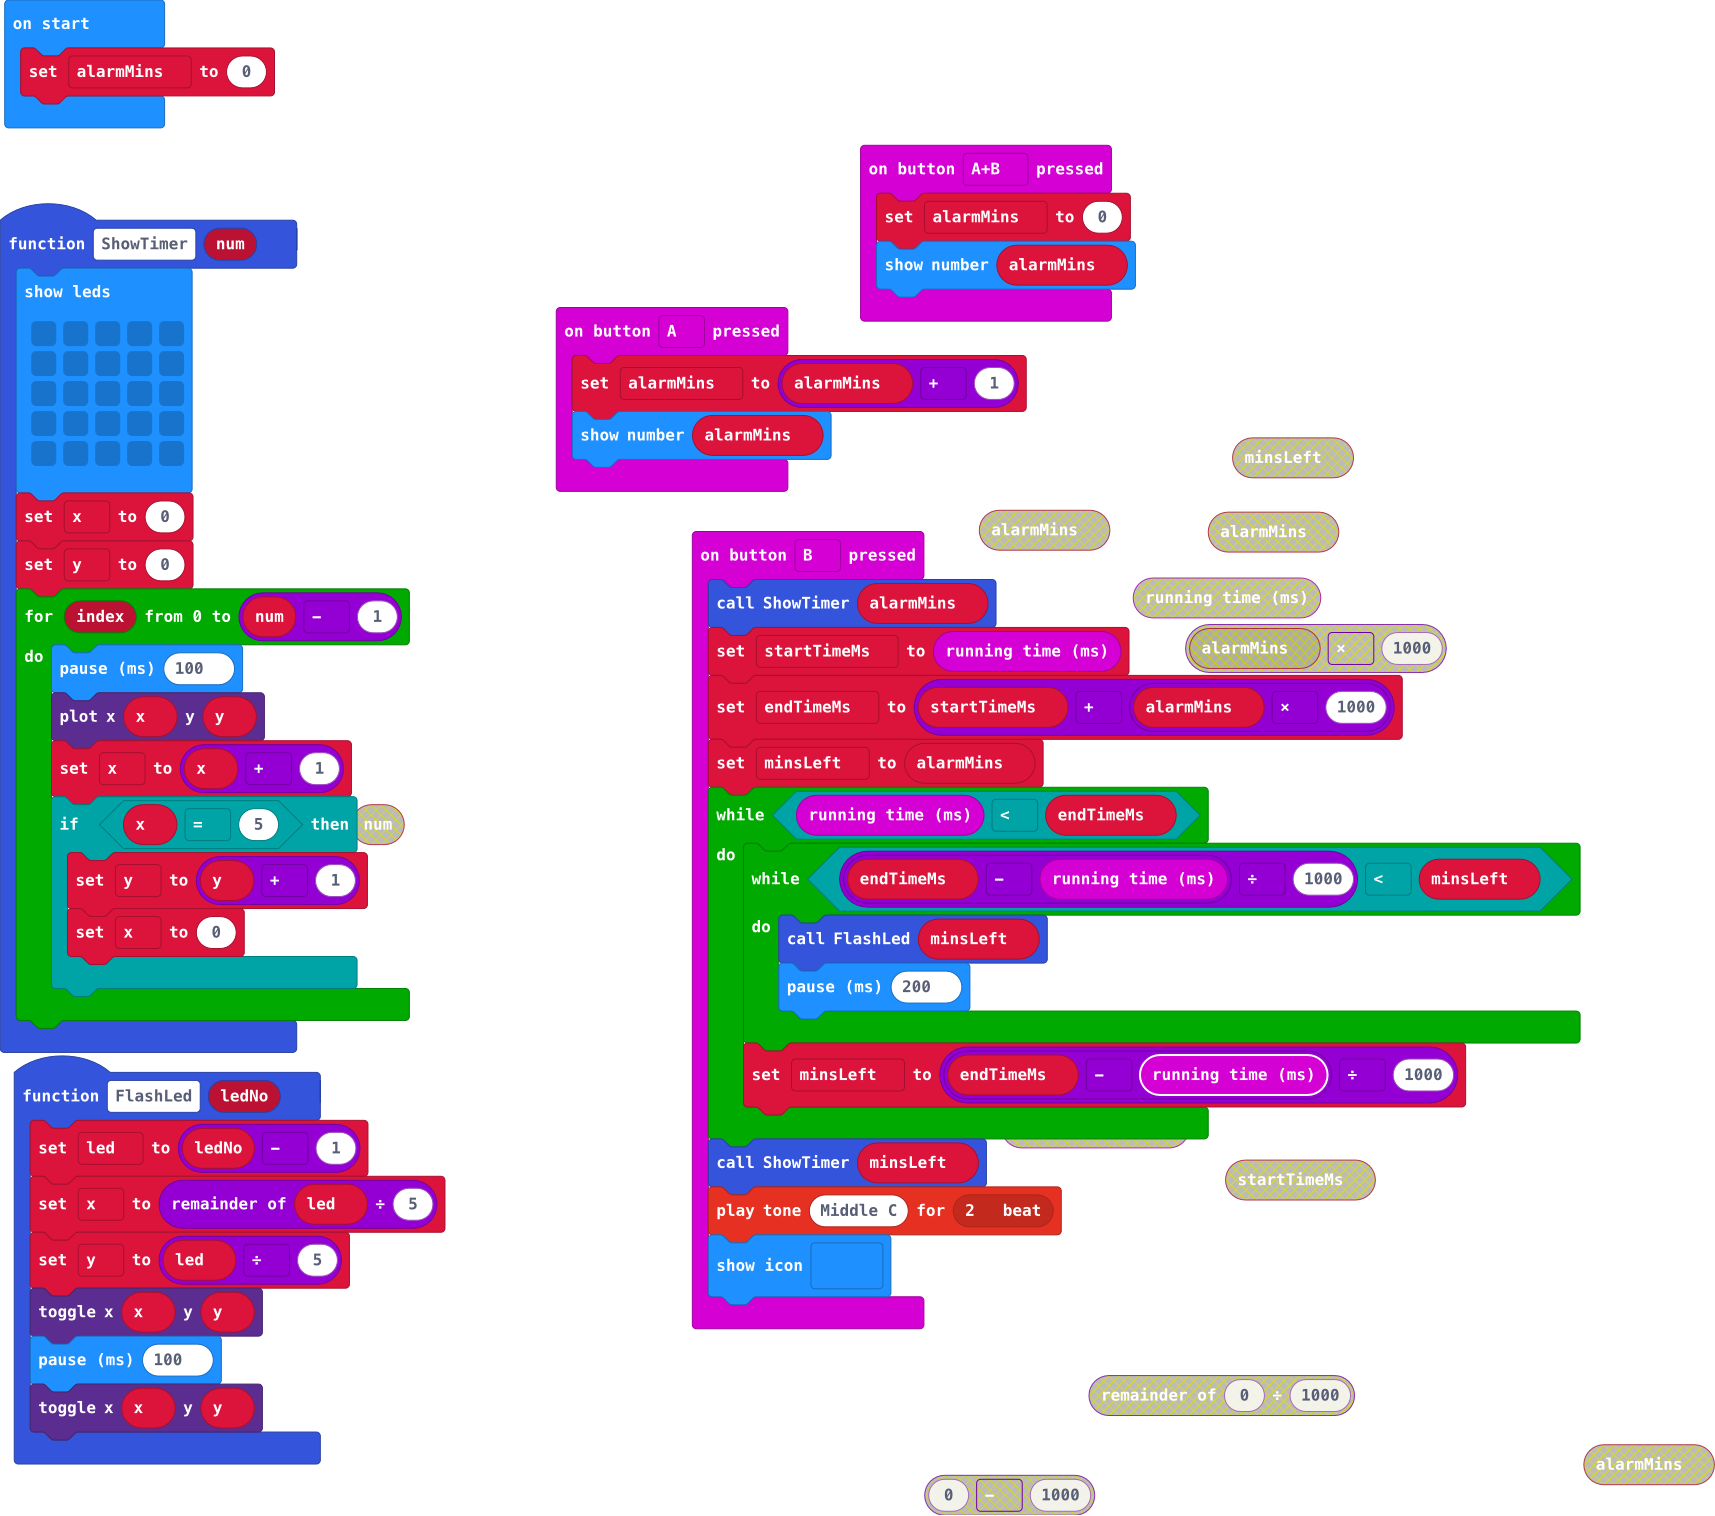
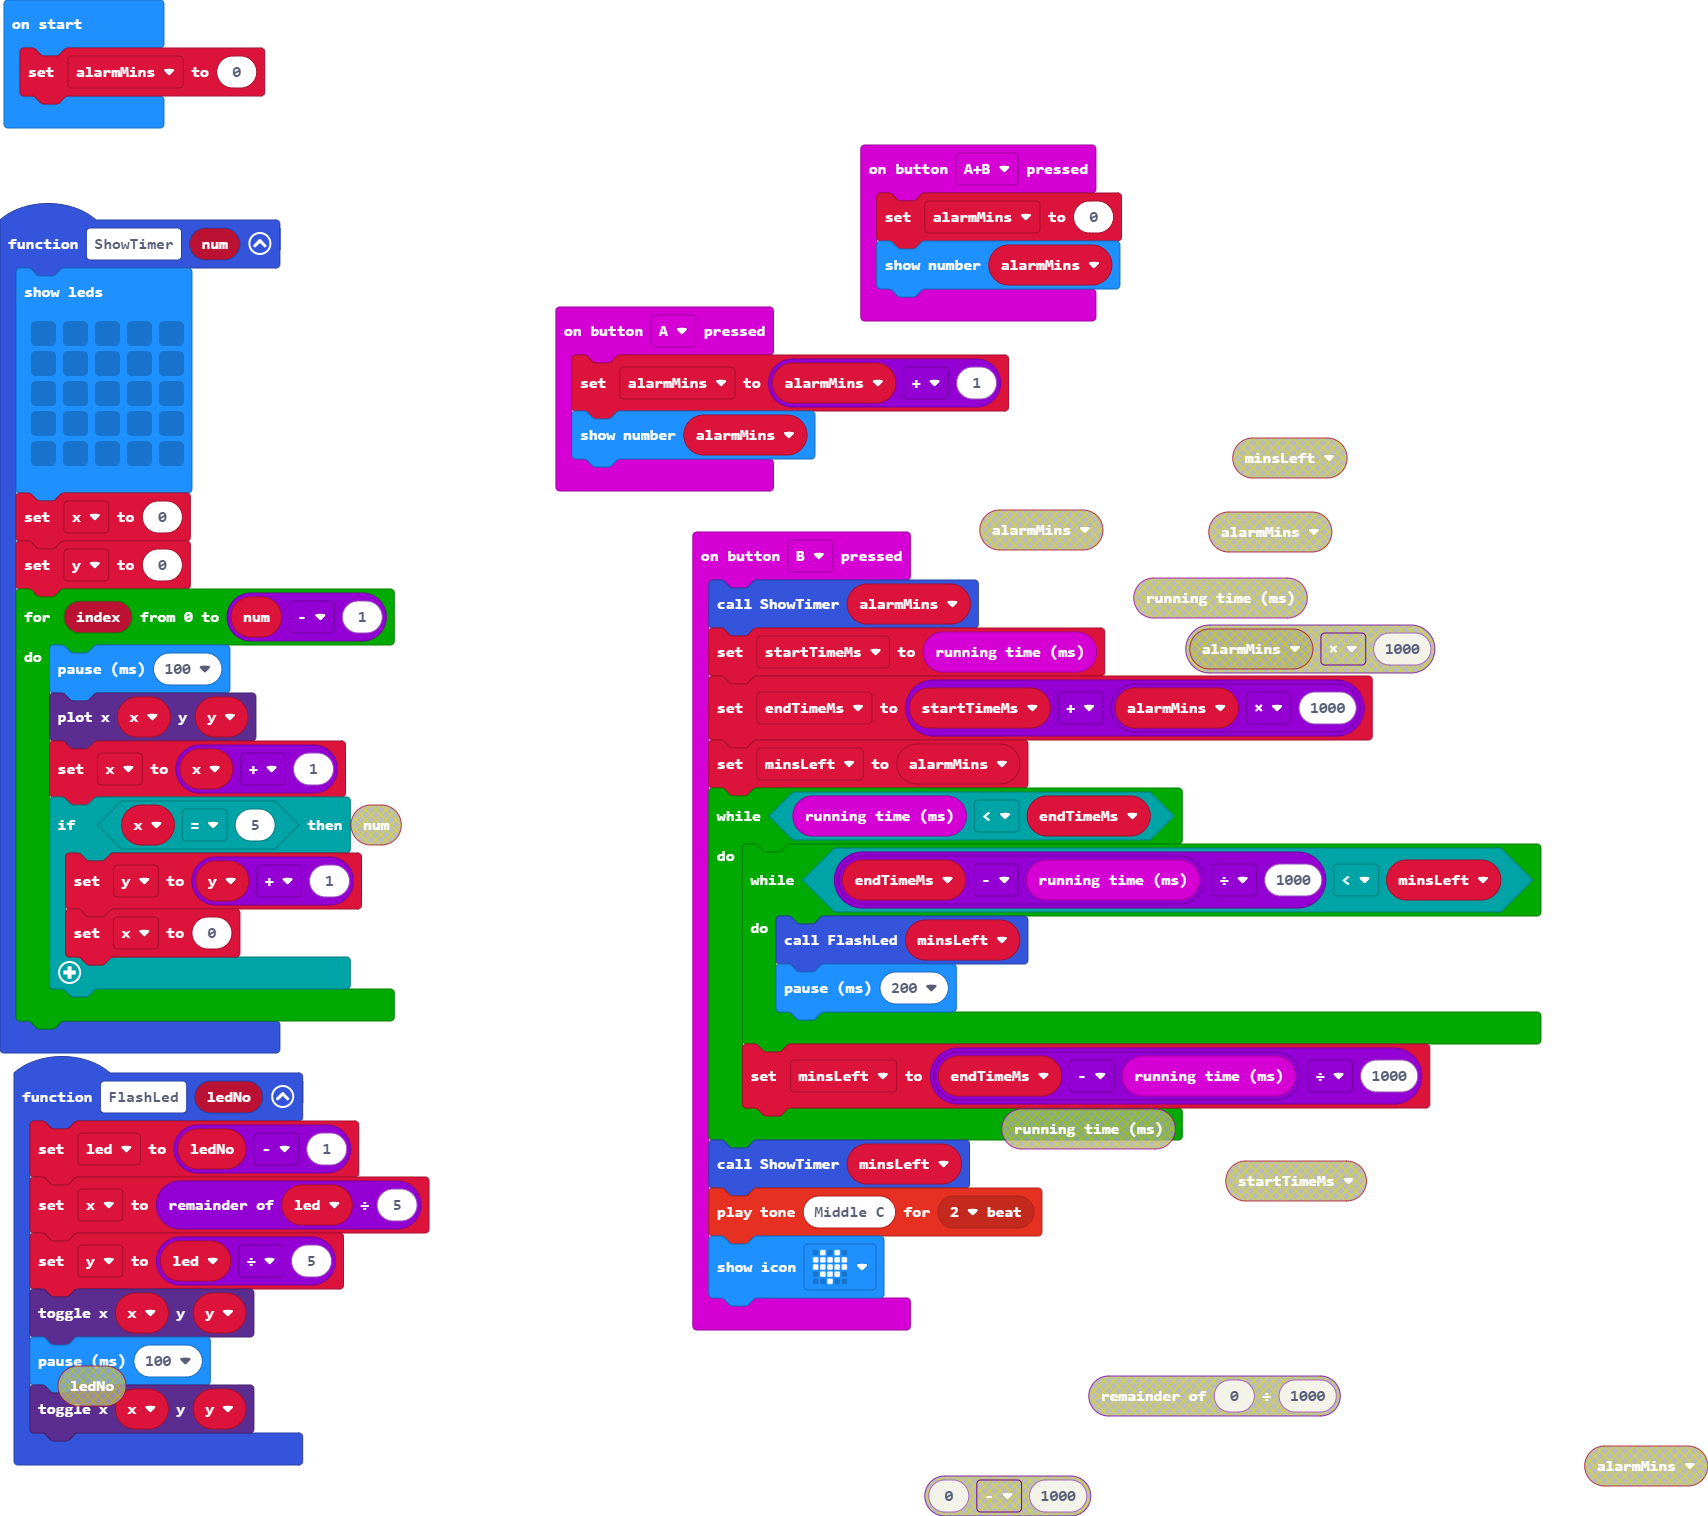
Update pxt.json, main.blocks, main.ts

diff --git a/main.ts b/main.ts
@@ -2,7 +2,7 @@ input.onButtonPressed(Button.A, function () {
     alarmMins = alarmMins + 1
     basic.showNumber(alarmMins)
 })
-function ShowTimer (num: number) {
+function ShowTimer (num: number, animate: boolean) {
     basic.showLeds(`
         . . . . .
         . . . . .
@@ -13,7 +13,9 @@ function ShowTimer (num: number) {
     x = 0
     y = 0
     for (let index = 0; index <= num - 1; index++) {
-        basic.pause(100)
+        if (animate) {
+            basic.pause(100)
+        }
         led.plot(x, y)
         x = x + 1
         if (x == 5) {
@@ -27,19 +29,24 @@ input.onButtonPressed(Button.AB, function () {
     basic.showNumber(alarmMins)
 })
 input.onButtonPressed(Button.B, function () {
-    ShowTimer(alarmMins)
+    ShowTimer(alarmMins, true)
     startTimeMs = input.runningTime()
-    endTimeMs = startTimeMs + alarmMins * 1000
-    minsLeft = alarmMins
+    endTimeMs = startTimeMs + alarmMins * msPerMinute
+    minsLeft = Math.floor((endTimeMs - input.runningTime()) / msPerMinute)
     while (input.runningTime() < endTimeMs) {
-        while ((endTimeMs - input.runningTime()) / 1000 < minsLeft) {
-            FlashLed(minsLeft)
-            basic.pause(200)
+        console.log("start: " + startTimeMs + ", end: " + endTimeMs 
+            + ", minsLeft: " + minsLeft + ", runtime: " + input.runningTime())
+        ShowTimer(minsLeft+1, false)
+        while (input.runningTime() < endTimeMs - minsLeft * msPerMinute) {
+            console.log(" - start: " + startTimeMs + ", end: " + endTimeMs 
+                + ", minsLeft: " + minsLeft + ", runtime: " + input.runningTime())
+            FlashLed(minsLeft+1)
+            basic.pause(100)
         }
-        minsLeft = (endTimeMs - input.runningTime()) / 1000
+        music.playTone(262, music.beat(BeatFraction.Whole))
+        minsLeft = Math.floor((endTimeMs - input.runningTime()) / msPerMinute)
     }
-    ShowTimer(minsLeft)
-    music.playTone(262, music.beat(BeatFraction.Double))
+    soundExpression.giggle.play()
     basic.showIcon(IconNames.Heart)
 })
 function FlashLed (ledNo: number) {
@@ -51,10 +58,12 @@ function FlashLed (ledNo: number) {
     led.toggle(x, y)
 }
 let led2 = 0
-let minsLeft = 0
-let endTimeMs = 0
-let startTimeMs = 0
 let y = 0
 let x = 0
+let msPerMinute = 0
 let alarmMins = 0
+let startTimeMs = 0
+let endTimeMs = 0
+let minsLeft = 0
 alarmMins = 0
+msPerMinute = 5000
